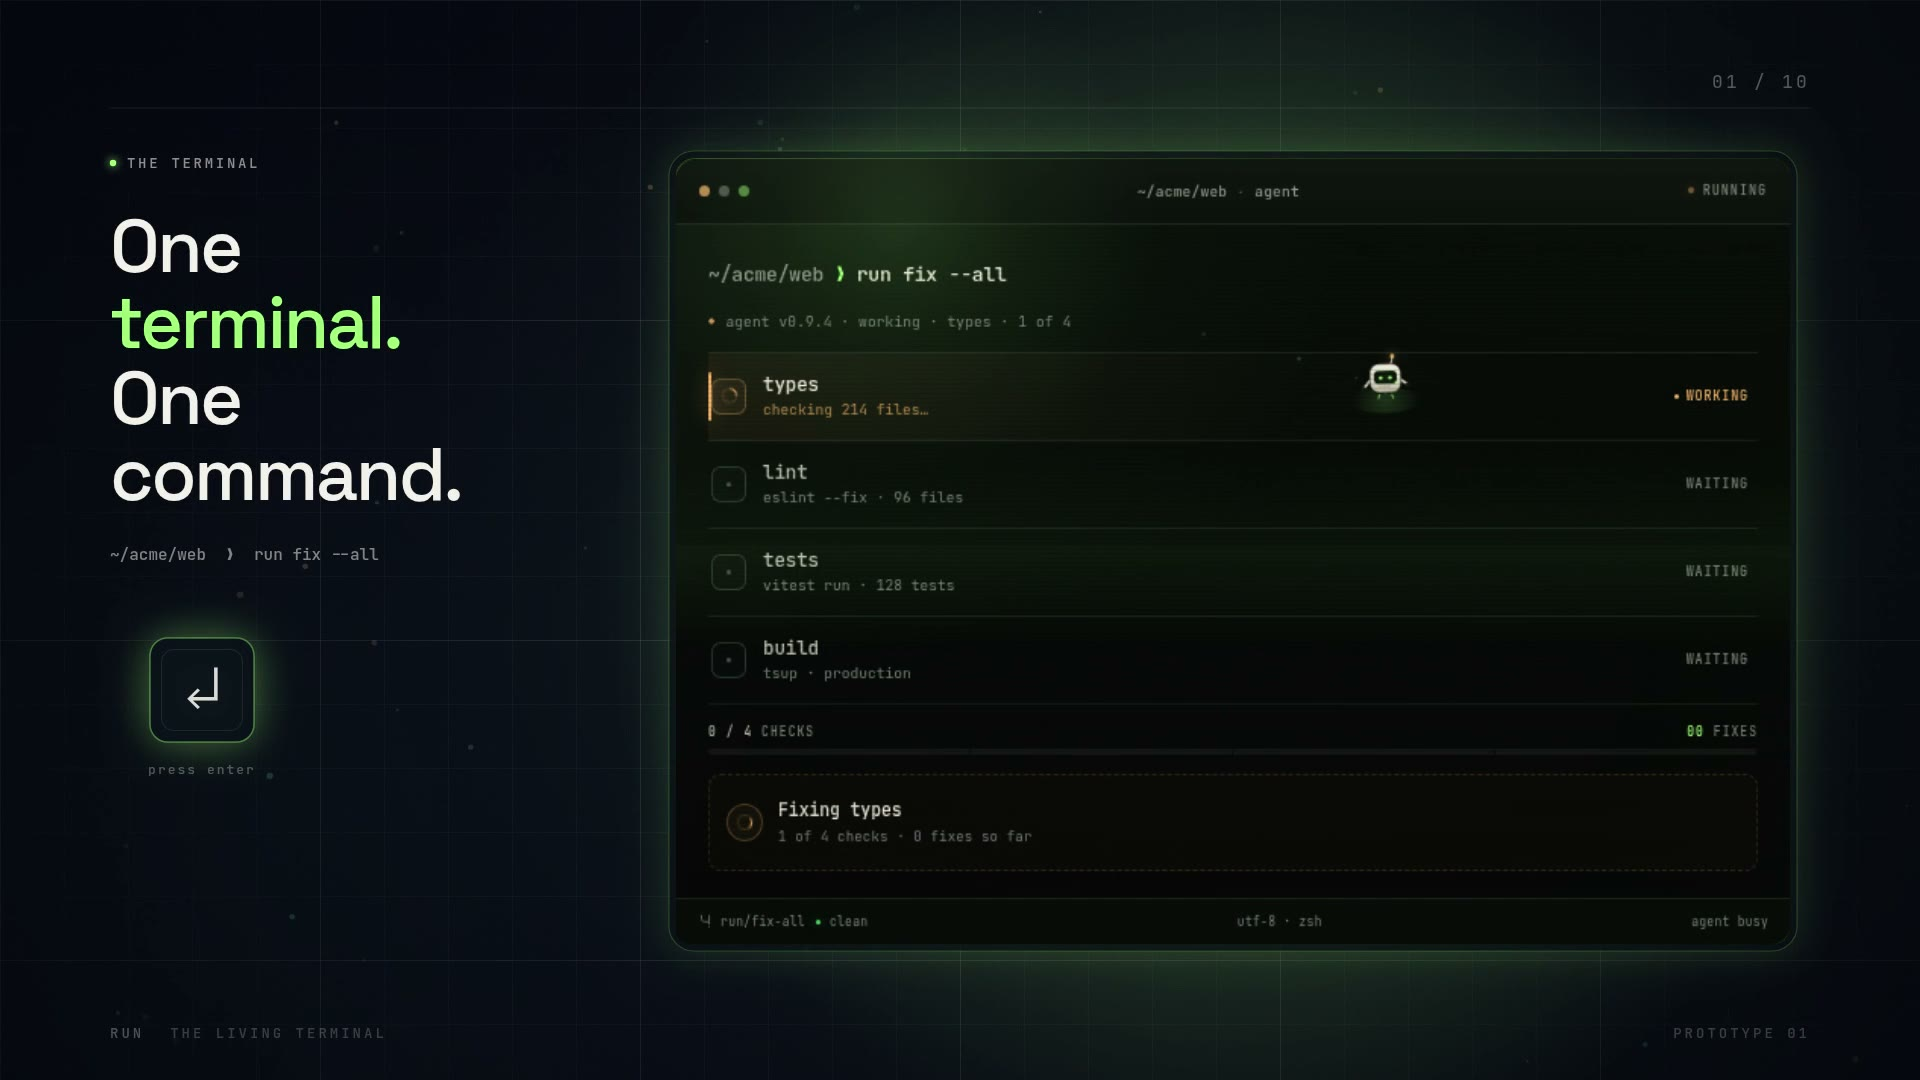
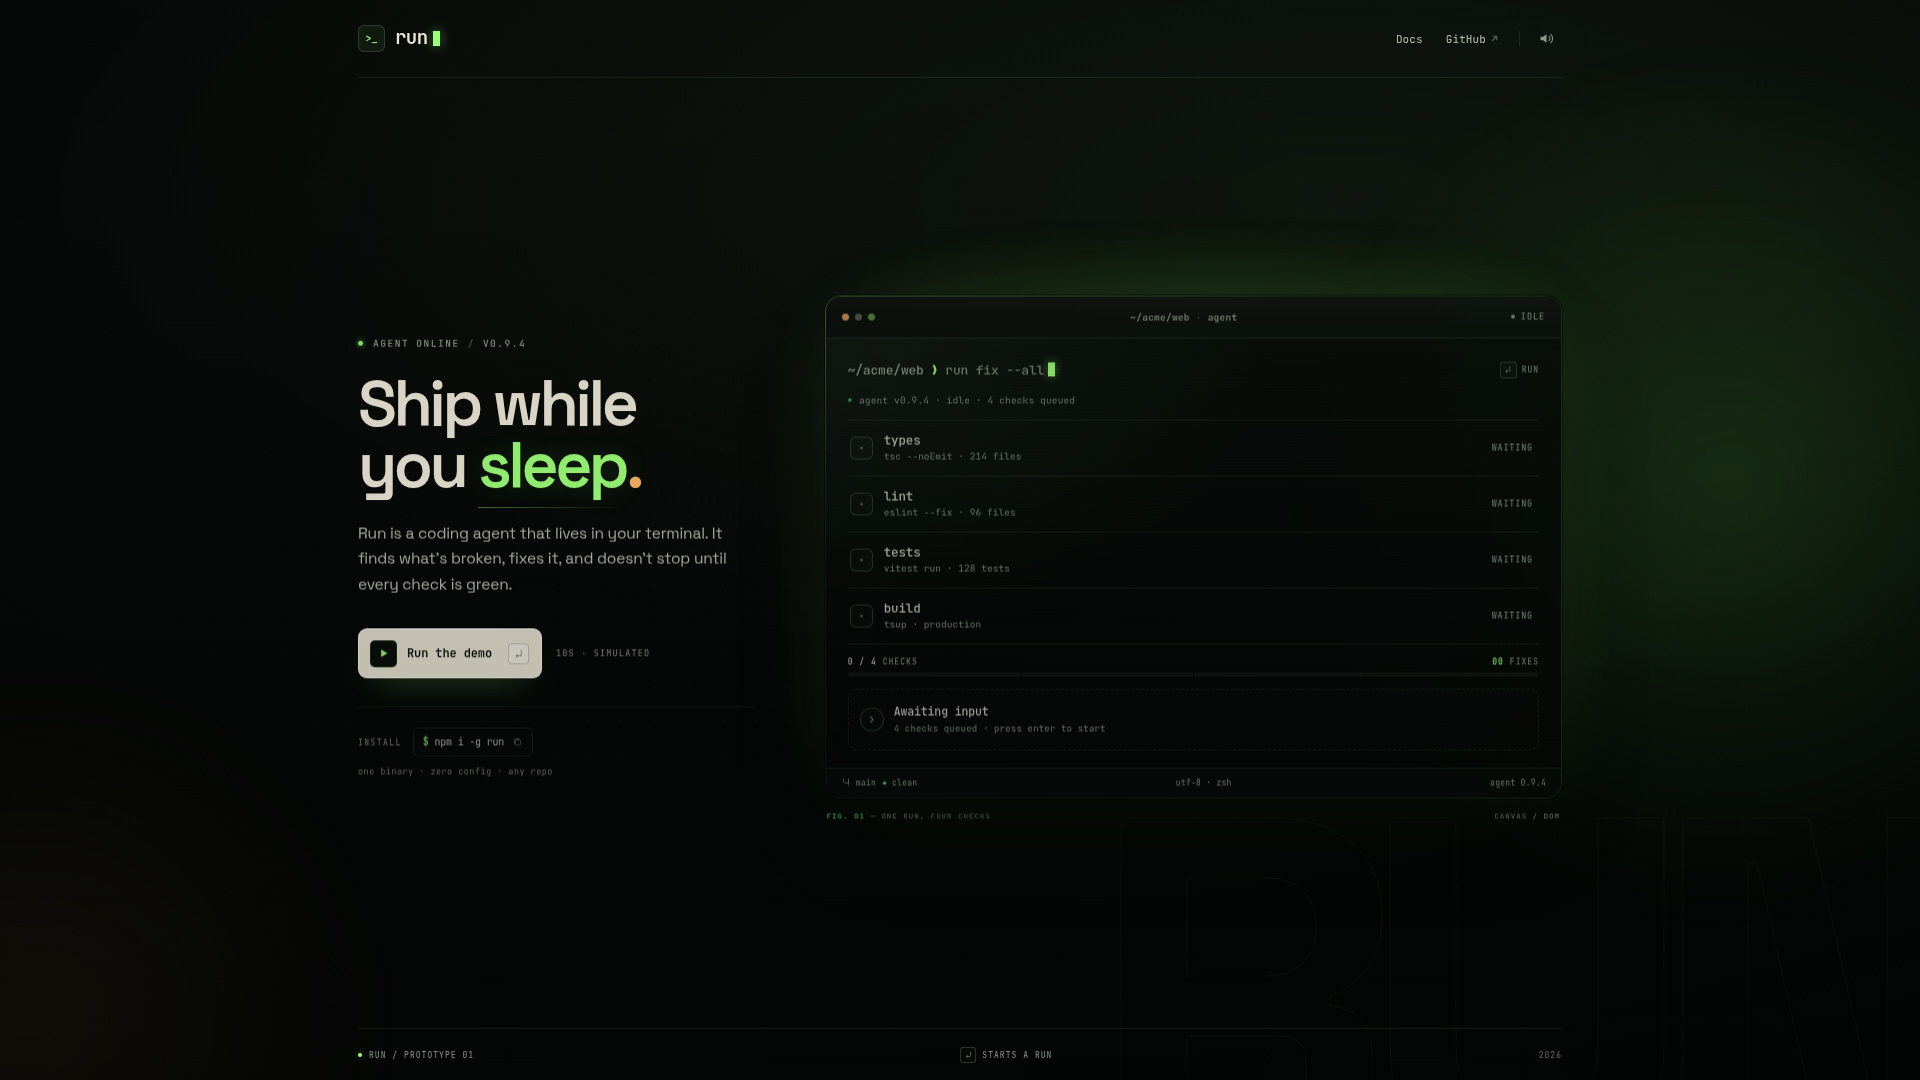
docs: open the explainer on the live demo screenshot

diff --git a/docs/explainer/README.md b/docs/explainer/README.md
@@ -41,7 +41,7 @@ capture.mjs     screenshots of the real page at key beats
 assets/         captured page and terminal stills
 music.json      score metadata and license
 music.m4a       score bed
-poster.jpg      first frame of the published master
+poster.jpg      1920x1080 idle capture of the demo, first frame of the master
 golden/         reference frame for render checks
 ```
 
@@ -49,7 +49,7 @@ The generated `build/` directory is ignored. It holds narration stems, the mixed
 
 ## Poster-first cut
 
-The published master opens on `poster.jpg` instead of the original dark first frame. The poster holds for 2.5 s, crossfades for 0.5 s, then the film continues from 2.5 s. The original audio starts at zero, so duration, sync, and chapter timings are unchanged.
+The published master opens on `poster.jpg`, a 1920x1080 idle capture of the live demo page, instead of the original dark first frame. The poster holds for 2.5 s, crossfades for 0.5 s, then the film continues from 2.5 s. The original audio starts at zero, so duration, sync, and chapter timings are unchanged.
 
 ```bash
 SOURCE=build/film.mp4

diff --git a/README.md b/README.md
@@ -4,7 +4,7 @@ A one-screen landing page for a terminal agent that fixes a repo in one command.
 
 **Live demo:** https://jimmerioles.github.io/run/
 
-https://github.com/user-attachments/assets/eb56bb3b-f8e5-4695-9375-93058c6e5f89
+https://github.com/user-attachments/assets/104e0d0e-204b-4f39-a171-8b0b7e124db8
 
 Run is a front-end prototype for a terminal-native coding agent, aimed at people building or evaluating agent UIs. The page has no hero image or feature grid: the terminal is the demo, and one key press drives it. The run is scripted, but the state machine, canvas robots, synthesized sound, and pause behavior are fully implemented.
 
